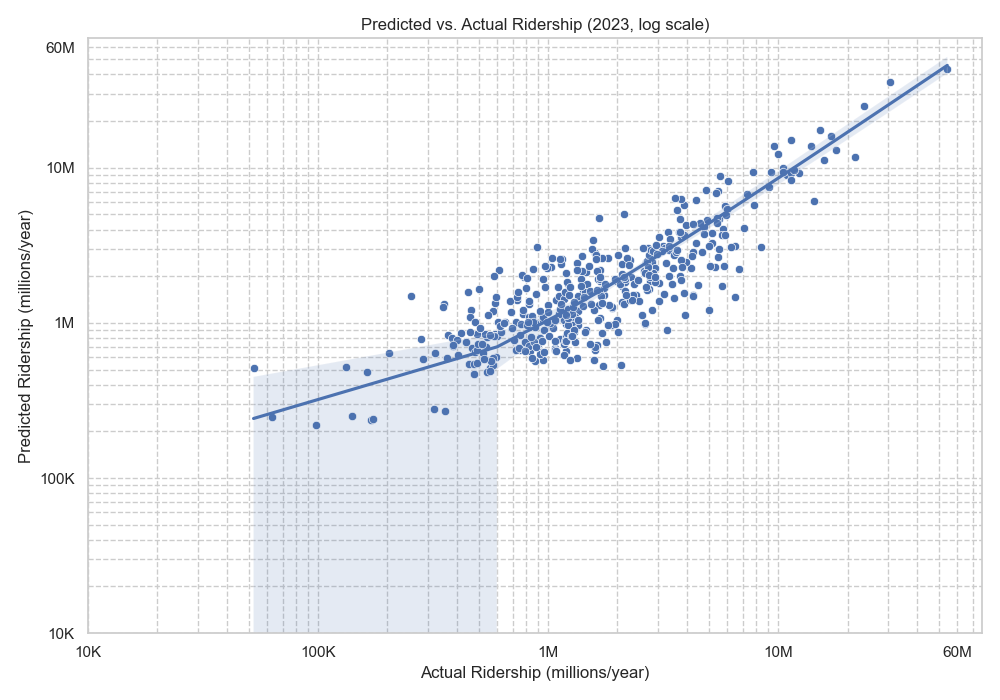
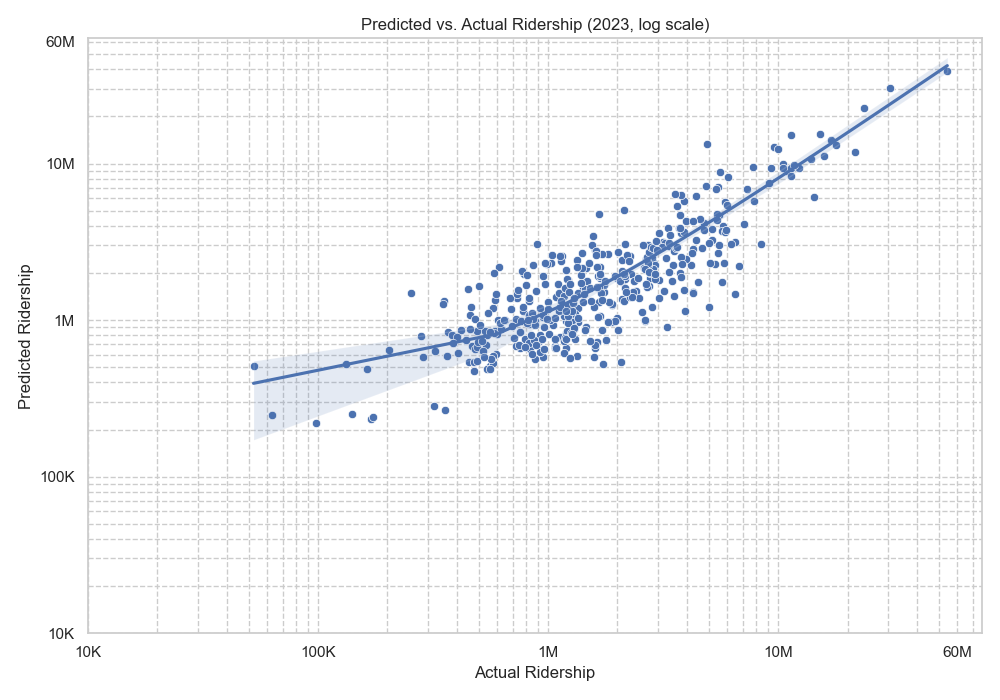
Fixed plots

diff --git a/plot.py b/plot.py
@@ -46,8 +46,8 @@ ticks = [1e4, 1e5, 1e6, 1e7, 6e7]
 labels = ["10K", "100K", "1M", "10M", "60M"]
 plt.xticks(ticks, labels)
 plt.yticks(ticks, labels)
-plt.xlabel("Actual Ridership (millions/year)")
-plt.ylabel("Predicted Ridership (millions/year)")
+plt.xlabel("Actual Ridership")
+plt.ylabel("Predicted Ridership")
 plt.title("Predicted vs. Actual Ridership (2023, log scale)")
 plt.grid(True, which = "both", linestyle= "--")
 plt.tight_layout()
